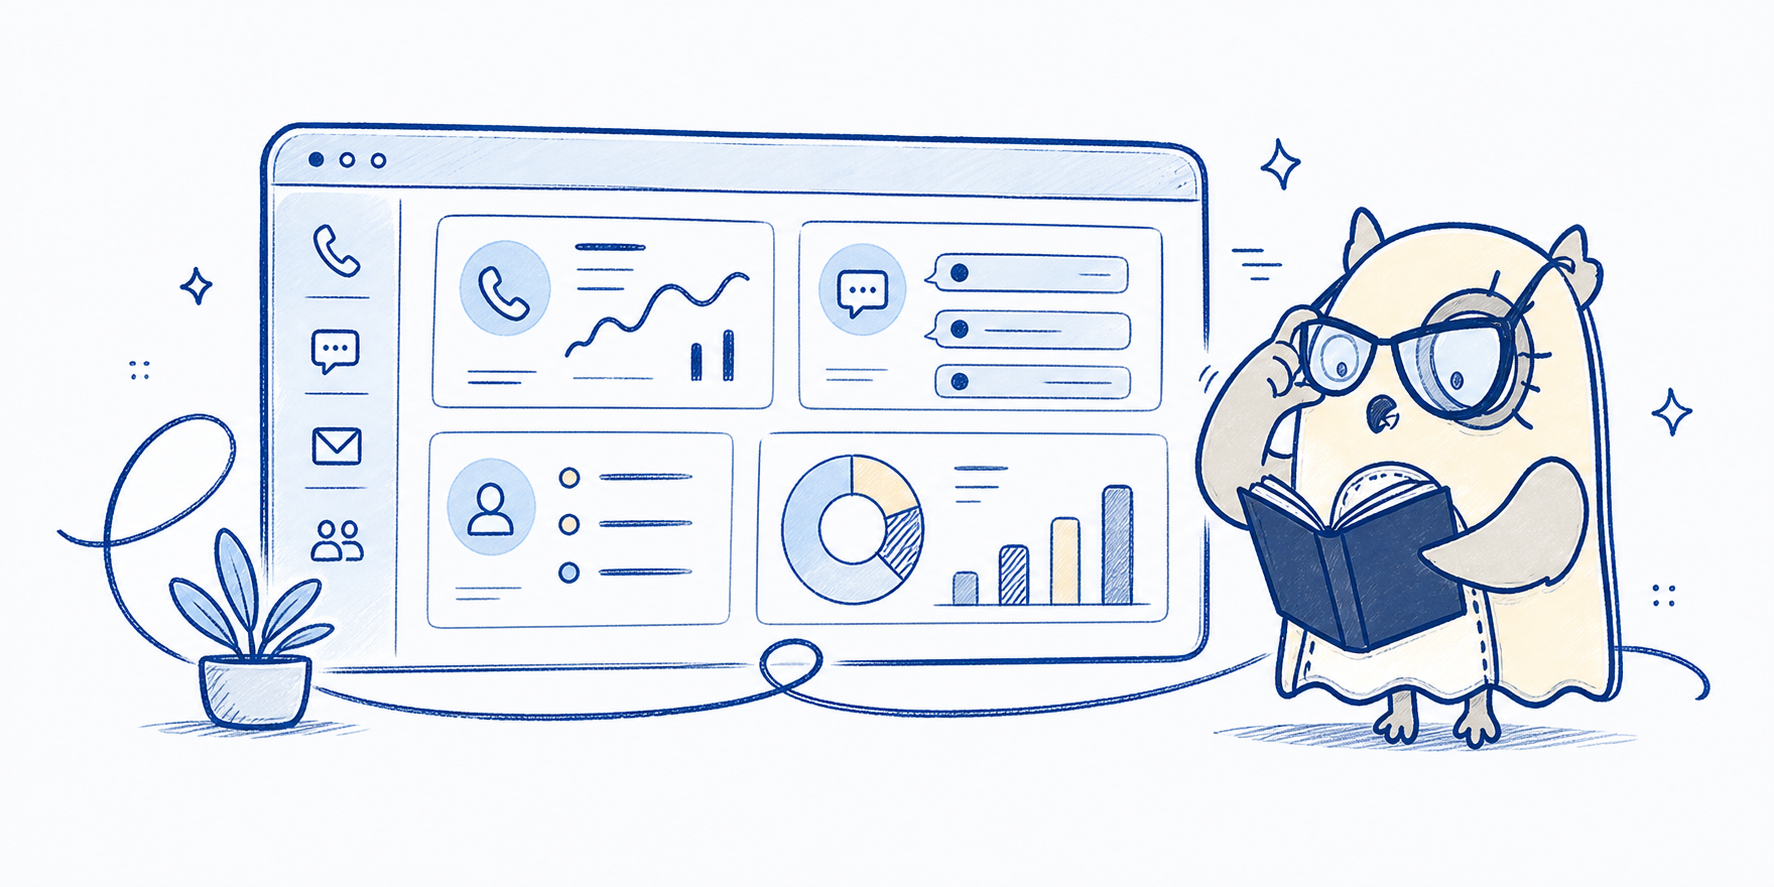
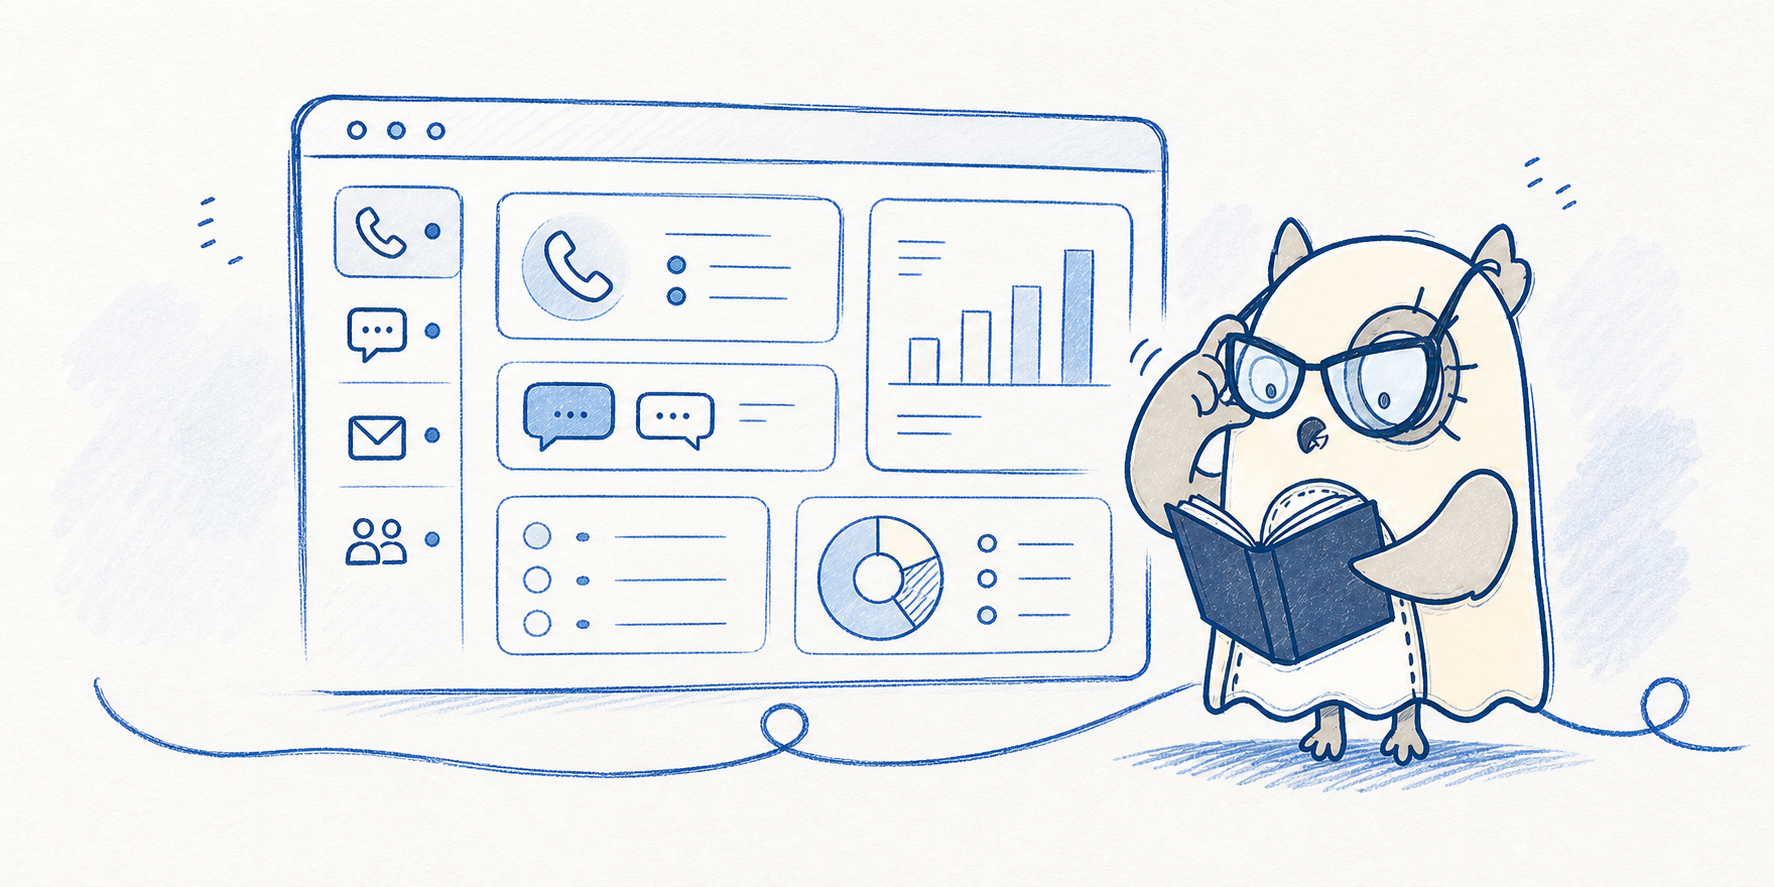
feat: обновить title-изображения разделов «Первоначальная настройка» и «Обзор»
Перенести изображение guides в отдельный каталог и обновить ссылки на главной и в get-started.

diff --git a/src/index.md b/src/index.md
@@ -8,7 +8,7 @@ label: Введение
 хранить историю обращений, распределять ответственность между сотрудниками и контролировать качество обработки.
 
 :::card-no-title
-[!card layout="vertical" image="assets/images/title-image.png" kicker="Первоначальная настройка" text="Инструкции для быстрого старта"](guides/get-started.md)
+[!card layout="vertical" image="assets/images/guides/title-image.png" kicker="Первоначальная настройка" text="Инструкции для быстрого старта"](guides/get-started.md)
 [!card layout="vertical" image="assets/images/overview/overview-title-image.png" kicker="Возможности продукта" text="Что умеет контакт-центр и как устроена работа с обращениями"](overview.md)
 :::
 

diff --git a/src/guides/get-started.md b/src/guides/get-started.md
@@ -6,7 +6,7 @@ backlinks:
   enabled: false
 ---
 
-![МИКО: Контакт-центр](../assets/images/title-image.png){.miko-title}
+![МИКО: Контакт-центр](../assets/images/guides/title-image.png){.miko-title}
 
 В данном разделе указаны действия, которые потребуется выполнить, прежде чем можно будет переходить к
 настройке других параметров.
